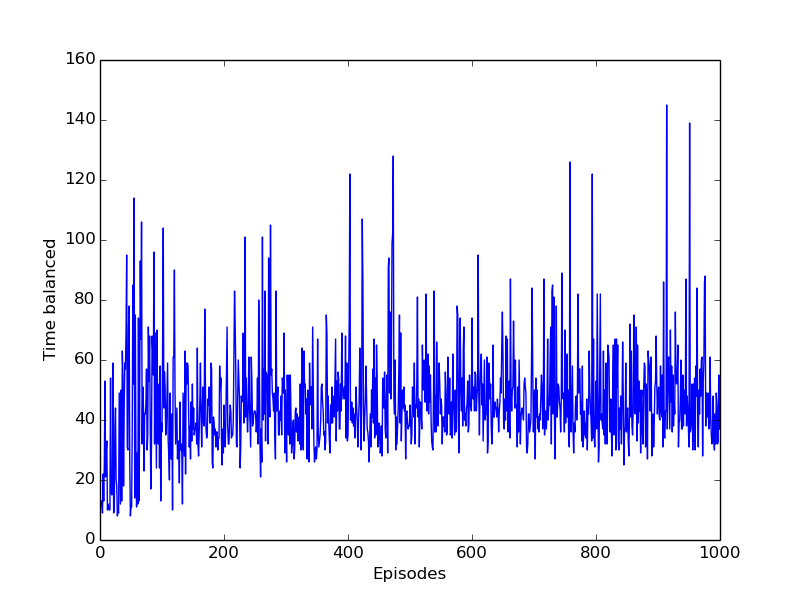
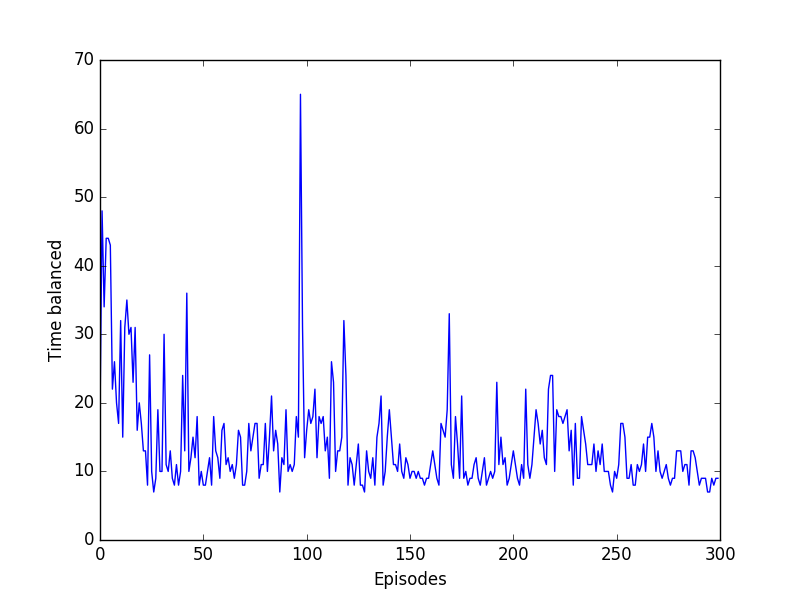
Better architecture

diff --git a/ML/cart_pole.py b/ML/cart_pole.py
@@ -10,7 +10,7 @@ from keras.optimizers import RMSprop
 
 
 class DQNAgent:
-	def __init__(self, env, mem_size=10000, gamma=0.9, epsilon=0.7, epsilon_decay=0.99, epsilon_min=0.005, learning_rate=0.0003, batch_size=32):
+	def __init__(self, env, mem_size=1000, gamma=0.9, epsilon=0.7, epsilon_decay=0.99, epsilon_min=0.005, learning_rate=0.0003, batch_size=32):
 		"""Assign default values to various variables"""
 		self.env = env
 		self.memory = deque(maxlen=mem_size)
@@ -29,9 +29,9 @@ class DQNAgent:
 		N_OUT = self.env.action_space.n
 
 		model = Sequential()
-		model.add(Dense(64, input_dim=N_IN, activation='tanh', init='he_uniform'))
-		model.add(Dense(128, activation='tanh', init='he_uniform'))
-		model.add(Dense(128, activation='tanh', init='he_uniform'))
+		model.add(Dense(16, input_dim=N_IN, activation='tanh', init='he_uniform'))
+		model.add(Dense(8, activation='tanh', init='he_uniform'))
+		model.add(Dense(4, activation='tanh', init='he_uniform'))
 		model.add(Dense(N_OUT, activation='linear', init='he_uniform'))
 
 		model.compile(loss='mse',
@@ -79,7 +79,7 @@ class DQNAgent:
 		self.model.save_weights(name)
 
 
-	def train(self, episodes=1000, verbose=False):
+	def train(self, episodes=300, verbose=False):
 		"""do the machine learning thing"""
 		scores = []
 		for e in range(episodes):
@@ -91,7 +91,7 @@ class DQNAgent:
 				action = self.act(state) #choose action
 				next_state, reward, done, _ = self.env.step(action) # do that action
 				next_state = np.reshape(next_state, [1, 4])
-				reward = -100 if done else reward
+				reward = -10 if done else reward
 				self.remember(state, action, reward, next_state) # save the result for later analysis
 				state = copy.deepcopy(next_state)
 				if done: break
